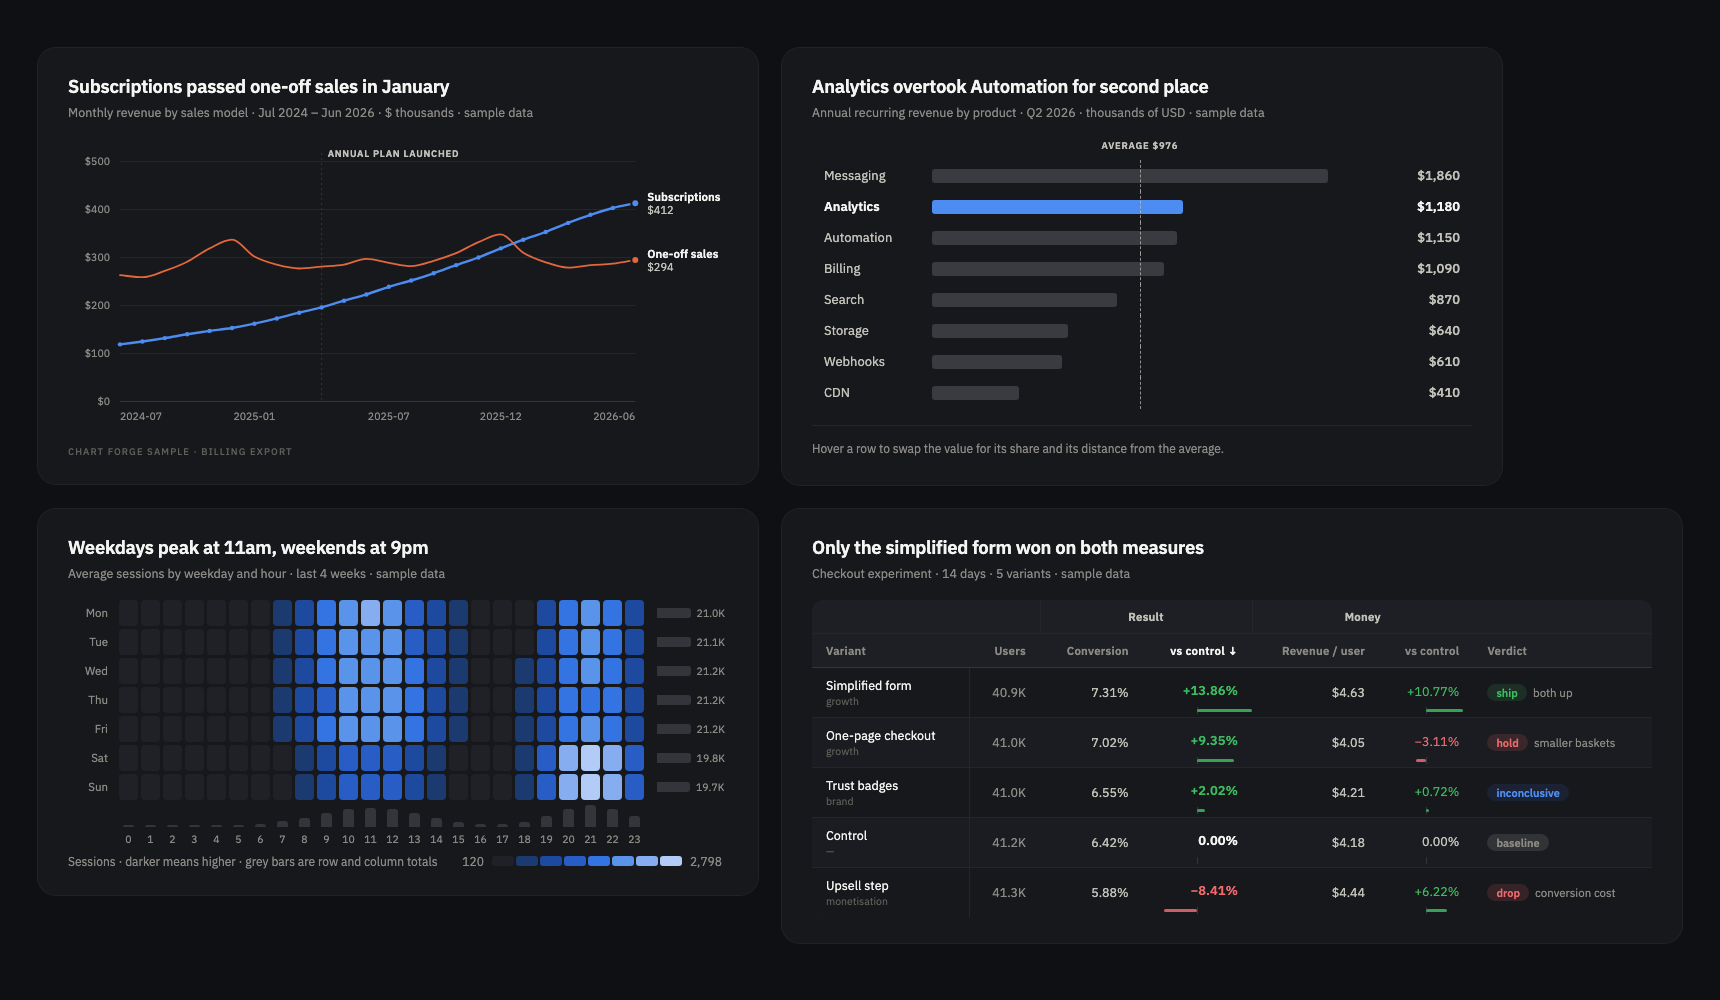
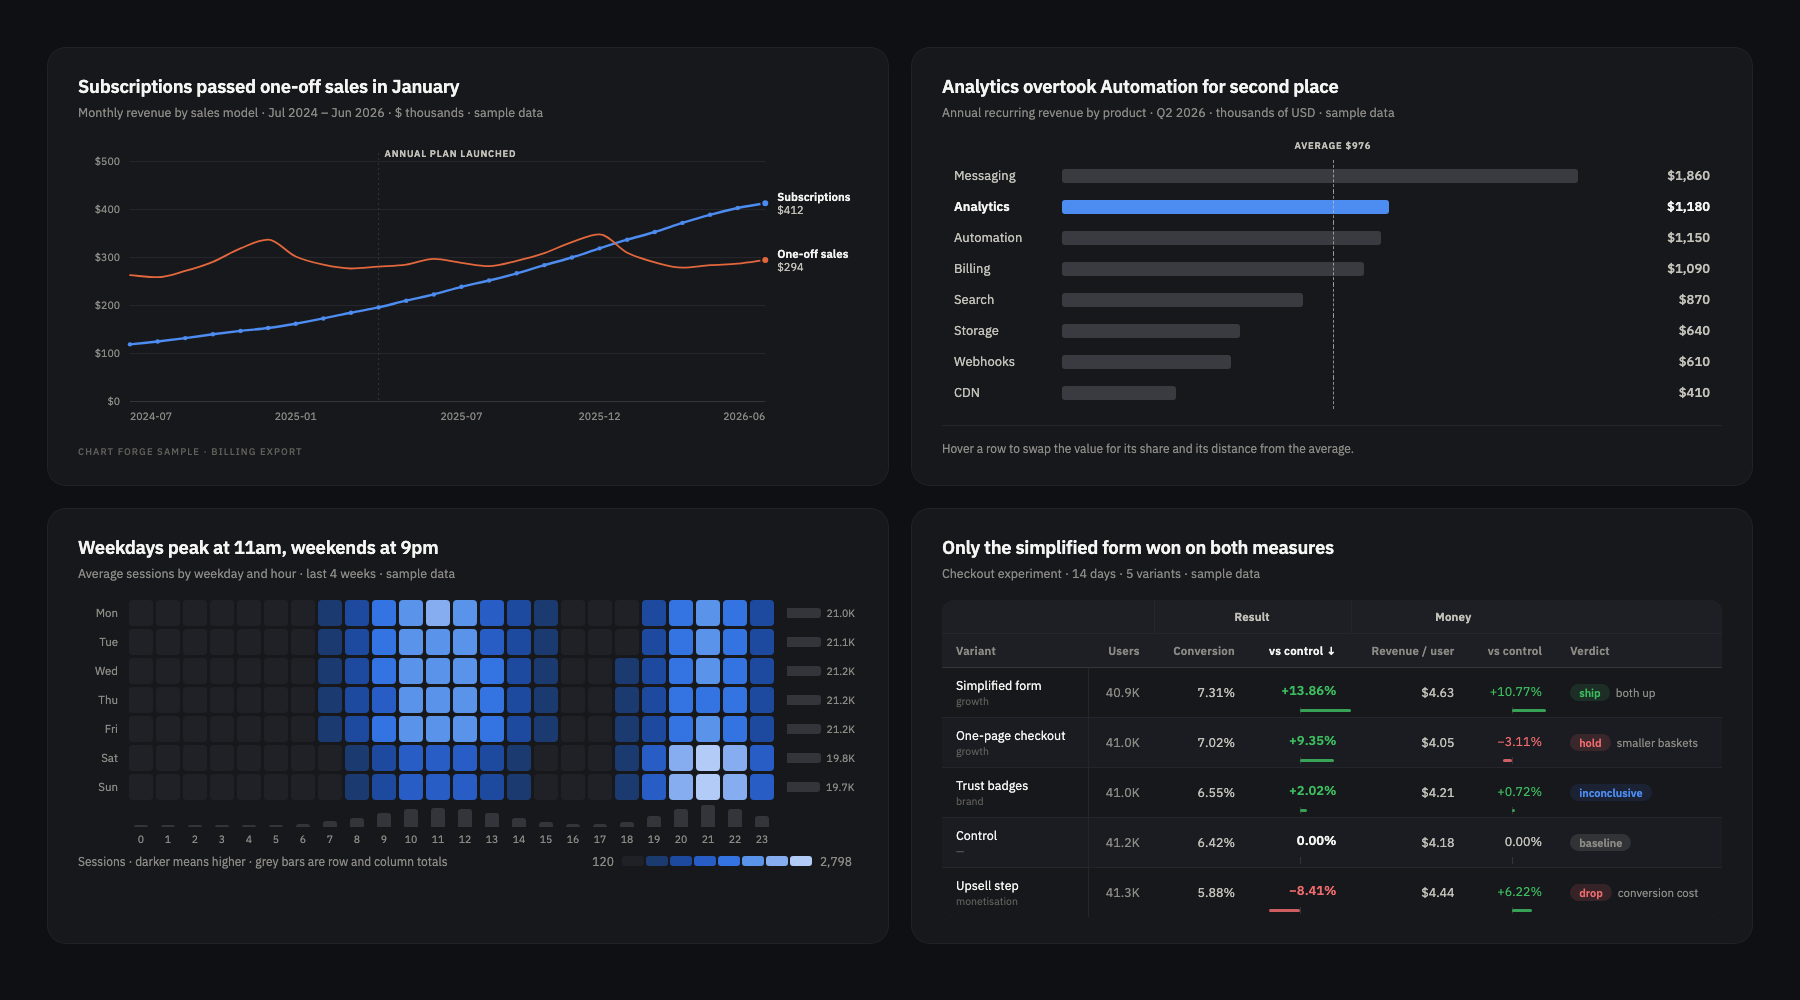
gallery: hero cards share one width so the grid lines up

diff --git a/scripts/gallery.py b/scripts/gallery.py
@@ -24,15 +24,16 @@ def hero(theme, png):
     sys.path.insert(0, HERE)
     import render as r
     specs = [json.load(open(os.path.join(EX, n + ".json"), encoding="utf-8")) for n in HERO]
-    html = r.build_html(specs, "Chart Forge", "Chart Forge", theme, True, 1464, "publish")
+    for s in specs: s["width"] = 840          # one width for every card so the grid lines up
+    html = r.build_html(specs, "Chart Forge", "Chart Forge", theme, True, 840 * 2 + 24, "publish")
     html = html.replace("root.style.display = 'flex'; root.style.flexDirection = 'column'; root.style.gap = '32px';",
-                        "root.style.display = 'grid'; root.style.gridTemplateColumns = 'repeat(2, max-content)'; root.style.gap = '24px'; root.style.alignItems = 'start';")
+                        "root.style.display = 'grid'; root.style.gridTemplateColumns = 'repeat(2, 840px)'; root.style.gap = '24px'; root.style.alignItems = 'stretch';")
     html = html.replace('<div class="ck-page-head"', '<div class="ck-page-head" style="display:none"')
     with tempfile.NamedTemporaryFile("w", suffix=".html", delete=False, encoding="utf-8") as f:
         f.write(html); tmp = f.name
     with sync_playwright() as p:
         b = p.chromium.launch()
-        pg = b.new_page(viewport={"width": 1720, "height": 1000}, device_scale_factor=1, color_scheme=theme)
+        pg = b.new_page(viewport={"width": 1800, "height": 1000}, device_scale_factor=1, color_scheme=theme)
         pg.add_init_script("document.documentElement.setAttribute('data-motion','off')")
         pg.goto("file://" + tmp); pg.wait_for_timeout(800)
         pg.locator(".ck-page").screenshot(path=png)
